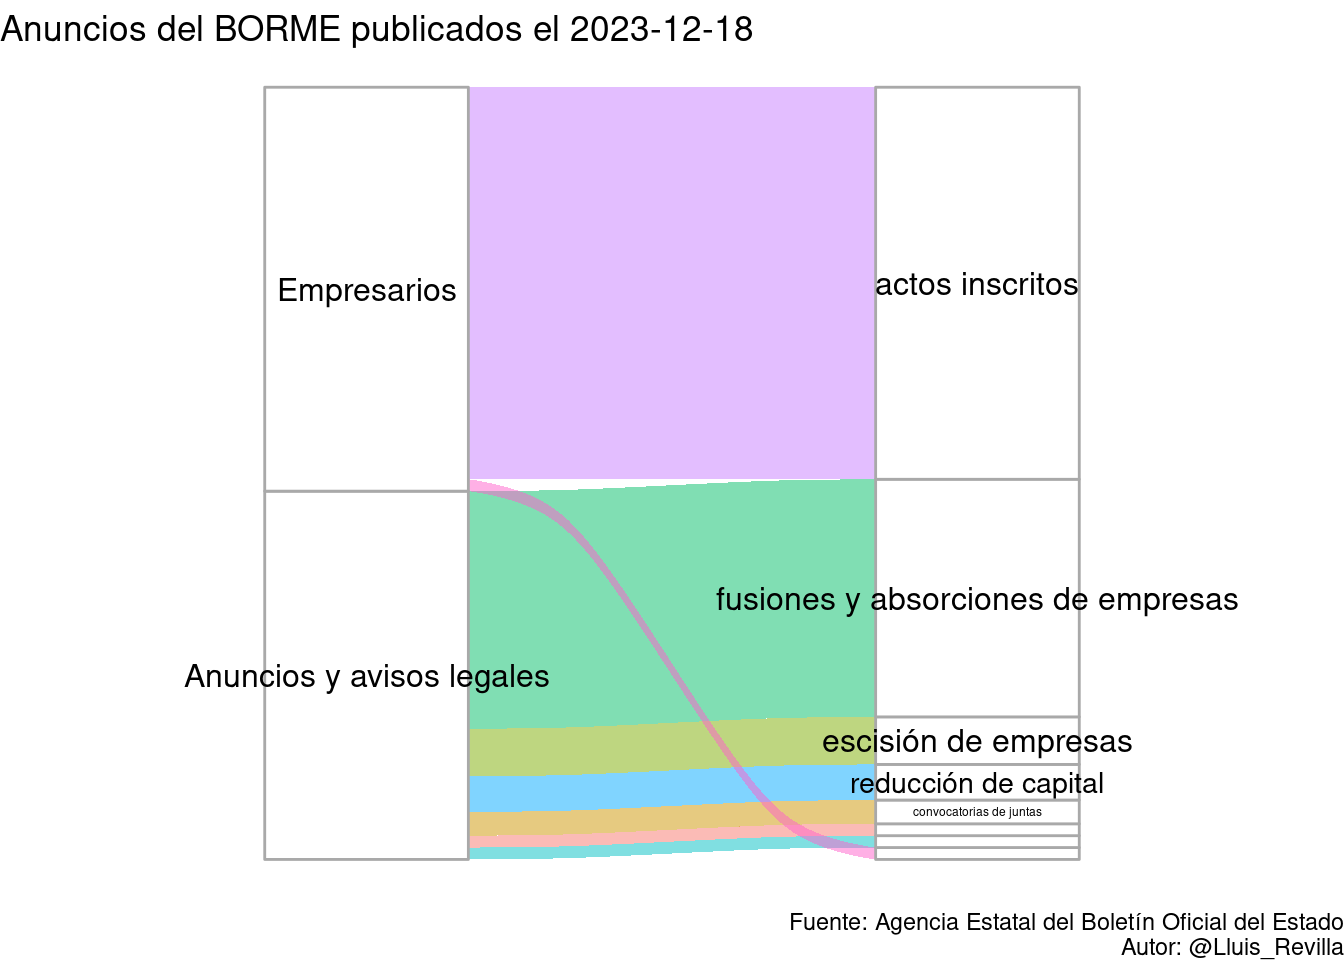
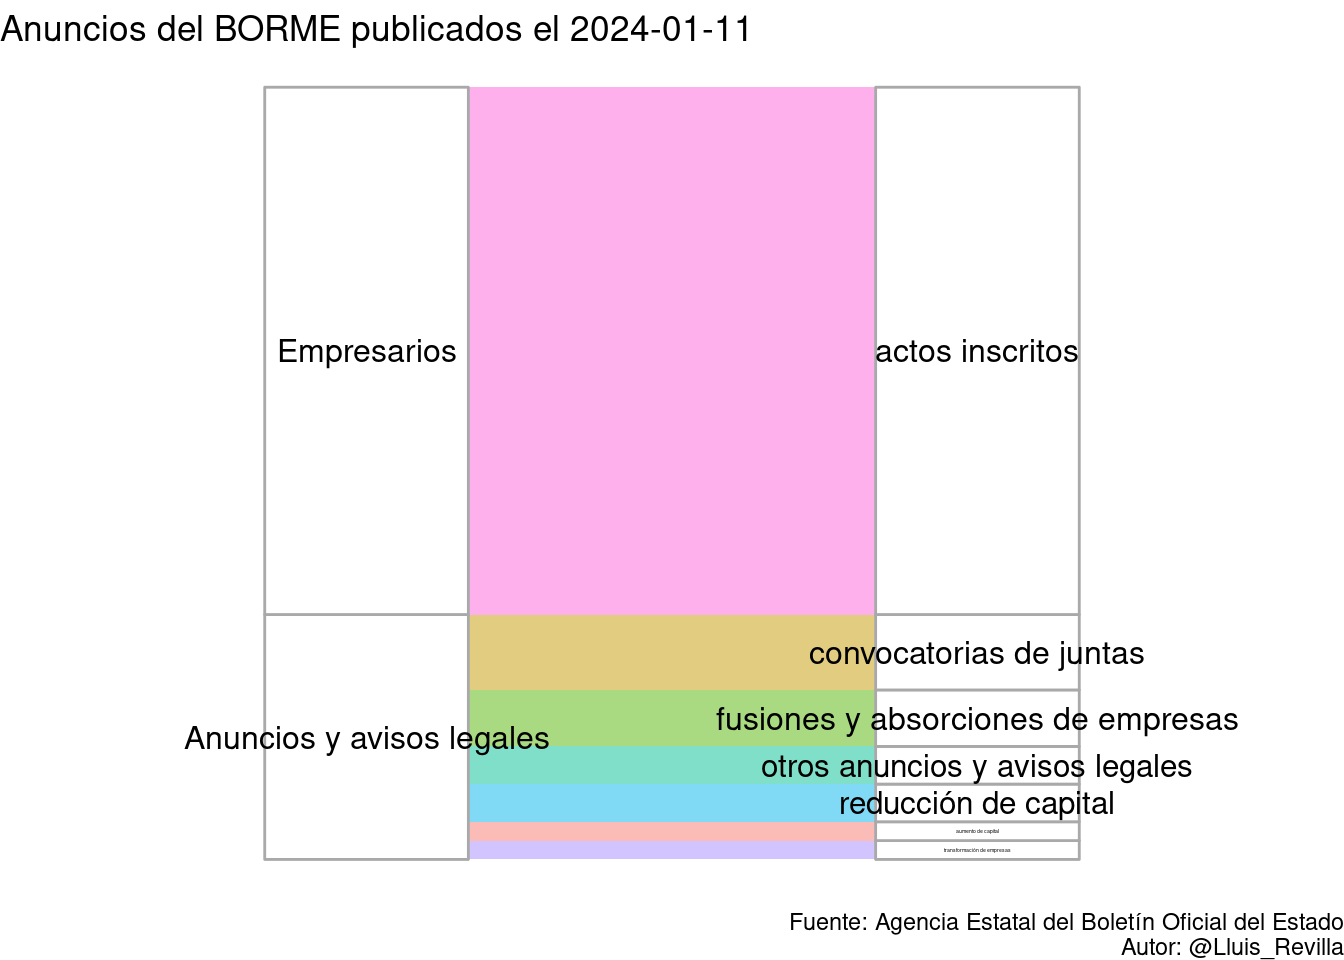
Update BORME

Changed region(s): [[0.125, 0.0938, 0.9062, 0.9062], [0.4688, 0.0, 0.5625, 0.0625]]

diff --git a/docs/last_BORME.html b/docs/last_BORME.html
@@ -379,14 +379,14 @@ $(document).ready(function () {
 
 <div id="resumen-gráfico" class="section level1">
 <h1>Resumen gráfico</h1>
-<p>Esta página web contiene el último sumario del BORME publicado el 2023-12-18 con 65 publicaciones.</p>
+<p>Esta página web contiene el último sumario del BORME publicado el 2024-01-11 con 41 publicaciones.</p>
 <p><img src="last_BORME_files/figure-html/graphics-1.png" width="672" /></p>
 </div>
 <div id="tabla-de-publicaciones" class="section level1">
 <h1>Tabla de publicaciones</h1>
 <p>Aquí está la tabla completa con enlaces a las publicaciones:</p>
-<div class="datatables html-widget html-fill-item-overflow-hidden html-fill-item" id="htmlwidget-524c3ef428e0dcd46468" style="width:100%;height:auto;"></div>
-<script type="application/json" data-for="htmlwidget-524c3ef428e0dcd46468">{"x":{"filter":"top","vertical":false,"filterHTML":"<tr>\n  <td><\/td>\n  <td data-type=\"character\" style=\"vertical-align: top;\">\n    <div class=\"form-group has-feedback\" style=\"margin-bottom: auto;\">\n      <input type=\"search\" placeholder=\"All\" class=\"form-control\" style=\"width: 100%;\"/>\n      <span class=\"glyphicon glyphicon-remove-circle form-control-feedback\"><\/span>\n    <\/div>\n  <\/td>\n  <td data-type=\"character\" style=\"vertical-align: top;\">\n    <div class=\"form-group has-feedback\" style=\"margin-bottom: auto;\">\n      <input type=\"search\" placeholder=\"All\" class=\"form-control\" style=\"width: 100%;\"/>\n      <span class=\"glyphicon glyphicon-remove-circle form-control-feedback\"><\/span>\n    <\/div>\n  <\/td>\n  <td data-type=\"character\" style=\"vertical-align: top;\">\n    <div class=\"form-group has-feedback\" style=\"margin-bottom: auto;\">\n      <input type=\"search\" placeholder=\"All\" class=\"form-control\" style=\"width: 100%;\" disabled=\"\"/>\n      <span class=\"glyphicon glyphicon-remove-circle form-control-feedback\"><\/span>\n    <\/div>\n  <\/td>\n  <td data-type=\"character\" style=\"vertical-align: top;\">\n    <div class=\"form-group has-feedback\" style=\"margin-bottom: auto;\">\n      <input type=\"search\" placeholder=\"All\" class=\"form-control\" style=\"width: 100%;\"/>\n      <span class=\"glyphicon glyphicon-remove-circle form-control-feedback\"><\/span>\n    <\/div>\n  <\/td>\n<\/tr>","data":[["1","2","3","4","5","6","7","8","9","10","11","12","13","14","15","16","17","18","19","20","21","22","23","24","25","26","27","28","29","30","31","32","33","34","35","36","37","38","39","40","41","42","43","44","45","46","47","48","49","50","51","52","53","54","55","56","57","58","59","60","61","62","63","64","65"],["SECCIÓN PRIMERA. Empresarios","SECCIÓN PRIMERA. Empresarios","SECCIÓN PRIMERA. Empresarios","SECCIÓN PRIMERA. Empresarios","SECCIÓN PRIMERA. Empresarios","SECCIÓN PRIMERA. Empresarios","SECCIÓN PRIMERA. Empresarios","SECCIÓN PRIMERA. Empresarios","SECCIÓN PRIMERA. Empresarios","SECCIÓN PRIMERA. Empresarios","SECCIÓN PRIMERA. Empresarios","SECCIÓN PRIMERA. Empresarios","SECCIÓN PRIMERA. Empresarios","SECCIÓN PRIMERA. Empresarios","SECCIÓN PRIMERA. Empresarios","SECCIÓN PRIMERA. Empresarios","SECCIÓN PRIMERA. Empresarios","SECCIÓN PRIMERA. Empresarios","SECCIÓN PRIMERA. Empresarios","SECCIÓN PRIMERA. Empresarios","SECCIÓN PRIMERA. Empresarios","SECCIÓN PRIMERA. Empresarios","SECCIÓN PRIMERA. Empresarios","SECCIÓN PRIMERA. Empresarios","SECCIÓN PRIMERA. Empresarios","SECCIÓN PRIMERA. Empresarios","SECCIÓN PRIMERA. Empresarios","SECCIÓN PRIMERA. Empresarios","SECCIÓN PRIMERA. Empresarios","SECCIÓN PRIMERA. Empresarios","SECCIÓN PRIMERA. Empresarios","SECCIÓN PRIMERA. Empresarios","SECCIÓN PRIMERA. Empresarios","SECCIÓN PRIMERA. Empresarios","SECCIÓN SEGUNDA. Anuncios y avisos legales","SECCIÓN SEGUNDA. Anuncios y avisos legales","SECCIÓN SEGUNDA. Anuncios y avisos legales","SECCIÓN SEGUNDA. Anuncios y avisos legales","SECCIÓN SEGUNDA. Anuncios y avisos legales","SECCIÓN SEGUNDA. Anuncios y avisos legales","SECCIÓN SEGUNDA. Anuncios y avisos legales","SECCIÓN SEGUNDA. Anuncios y avisos legales","SECCIÓN SEGUNDA. Anuncios y avisos legales","SECCIÓN SEGUNDA. Anuncios y avisos legales","SECCIÓN SEGUNDA. Anuncios y avisos legales","SECCIÓN SEGUNDA. Anuncios y avisos legales","SECCIÓN SEGUNDA. Anuncios y avisos legales","SECCIÓN SEGUNDA. Anuncios y avisos legales","SECCIÓN SEGUNDA. Anuncios y avisos legales","SECCIÓN SEGUNDA. Anuncios y avisos legales","SECCIÓN SEGUNDA. Anuncios y avisos legales","SECCIÓN SEGUNDA. Anuncios y avisos legales","SECCIÓN SEGUNDA. Anuncios y avisos legales","SECCIÓN SEGUNDA. Anuncios y avisos legales","SECCIÓN SEGUNDA. Anuncios y avisos legales","SECCIÓN SEGUNDA. Anuncios y avisos legales","SECCIÓN SEGUNDA. Anuncios y avisos legales","SECCIÓN SEGUNDA. Anuncios y avisos legales","SECCIÓN SEGUNDA. Anuncios y avisos legales","SECCIÓN SEGUNDA. Anuncios y avisos legales","SECCIÓN SEGUNDA. Anuncios y avisos legales","SECCIÓN SEGUNDA. Anuncios y avisos legales","SECCIÓN SEGUNDA. Anuncios y avisos legales","SECCIÓN SEGUNDA. Anuncios y avisos legales","SECCIÓN SEGUNDA. Anuncios y avisos legales"],["Actos inscritos","Actos inscritos","Actos inscritos","Actos inscritos","Actos inscritos","Actos inscritos","Actos inscritos","Actos inscritos","Actos inscritos","Actos inscritos","Actos inscritos","Actos inscritos","Actos inscritos","Actos inscritos","Actos inscritos","Actos inscritos","Actos inscritos","Actos inscritos","Actos inscritos","Actos inscritos","Actos inscritos","Actos inscritos","Actos inscritos","Actos inscritos","Actos inscritos","Actos inscritos","Actos inscritos","Actos inscritos","Actos inscritos","Actos inscritos","Actos inscritos","Actos inscritos","Actos inscritos","Otros actos publicados en el Registro Mercantil","BALANCES","CONVOCATORIAS DE JUNTAS","CONVOCATORIAS DE JUNTAS","FUSIONES Y ABSORCIONES DE EMPRESAS","FUSIONES Y ABSORCIONES DE EMPRESAS","FUSIONES Y ABSORCIONES DE EMPRESAS","FUSIONES Y ABSORCIONES DE EMPRESAS","FUSIONES Y ABSORCIONES DE EMPRESAS","FUSIONES Y ABSORCIONES DE EMPRESAS","FUSIONES Y ABSORCIONES DE EMPRESAS","FUSIONES Y ABSORCIONES DE EMPRESAS","FUSIONES Y ABSORCIONES DE EMPRESAS","FUSIONES Y ABSORCIONES DE EMPRESAS","FUSIONES Y ABSORCIONES DE EMPRESAS","FUSIONES Y ABSORCIONES DE EMPRESAS","FUSIONES Y ABSORCIONES DE EMPRESAS","FUSIONES Y ABSORCIONES DE EMPRESAS","FUSIONES Y ABSORCIONES DE EMPRESAS","FUSIONES Y ABSORCIONES DE EMPRESAS","FUSIONES Y ABSORCIONES DE EMPRESAS","FUSIONES Y ABSORCIONES DE EMPRESAS","FUSIONES Y ABSORCIONES DE EMPRESAS","FUSIONES Y ABSORCIONES DE EMPRESAS","ESCISIÓN DE EMPRESAS","ESCISIÓN DE EMPRESAS","ESCISIÓN DE EMPRESAS","ESCISIÓN DE EMPRESAS","REDUCCIÓN DE CAPITAL","REDUCCIÓN DE CAPITAL","REDUCCIÓN DE CAPITAL","OTROS ANUNCIOS Y AVISOS LEGALES"],[null,null,null,null,null,null,null,null,null,null,null,null,null,null,null,null,null,null,null,null,null,null,null,null,null,null,null,null,null,null,null,null,null,null,null,null,null,null,null,null,null,null,null,null,null,null,null,null,null,null,null,null,null,null,null,null,null,null,null,null,null,null,null,null,null],["BORME-A-2023-238-03","BORME-A-2023-238-04","BORME-A-2023-238-06","BORME-A-2023-238-07","BORME-A-2023-238-08","BORME-A-2023-238-10","BORME-A-2023-238-11","BORME-A-2023-238-12","BORME-A-2023-238-13","BORME-A-2023-238-14","BORME-A-2023-238-15","BORME-A-2023-238-19","BORME-A-2023-238-22","BORME-A-2023-238-23","BORME-A-2023-238-24","BORME-A-2023-238-26","BORME-A-2023-238-28","BORME-A-2023-238-29","BORME-A-2023-238-30","BORME-A-2023-238-31","BORME-A-2023-238-32","BORME-A-2023-238-33","BORME-A-2023-238-35","BORME-A-2023-238-36","BORME-A-2023-238-38","BORME-A-2023-238-40","BORME-A-2023-238-43","BORME-A-2023-238-45","BORME-A-2023-238-46","BORME-A-2023-238-47","BORME-A-2023-238-50","BORME-A-2023-238-51","BORME-A-2023-238-99","BORME-B-2023-238-08","BORME-C-2023-7437","BORME-C-2023-7438","BORME-C-2023-7439","BORME-C-2023-7440","BORME-C-2023-7441","BORME-C-2023-7442","BORME-C-2023-7443","BORME-C-2023-7444","BORME-C-2023-7445","BORME-C-2023-7446","BORME-C-2023-7447","BORME-C-2023-7448","BORME-C-2023-7449","BORME-C-2023-7450","BORME-C-2023-7451","BORME-C-2023-7452","BORME-C-2023-7453","BORME-C-2023-7454","BORME-C-2023-7455","BORME-C-2023-7456","BORME-C-2023-7457","BORME-C-2023-7458","BORME-C-2023-7459","BORME-C-2023-7460","BORME-C-2023-7461","BORME-C-2023-7462","BORME-C-2023-7463","BORME-C-2023-7464","BORME-C-2023-7465","BORME-C-2023-7466","BORME-C-2023-7467"]],"container":"<table class=\"display\">\n  <thead>\n    <tr>\n      <th> <\/th>\n      <th>Sección<\/th>\n      <th>Emisor<\/th>\n      <th>Texto<\/th>\n      <th>Link<\/th>\n    <\/tr>\n  <\/thead>\n<\/table>","options":{"pageLength":10,"autoWidth":true,"columnDefs":[{"orderable":false,"targets":0},{"name":" ","targets":0},{"name":"Sección","targets":1},{"name":"Emisor","targets":2},{"name":"Texto","targets":3},{"name":"Link","targets":4}],"order":[],"orderClasses":false,"orderCellsTop":true}},"evals":[],"jsHooks":[]}</script>
+<div class="datatables html-widget html-fill-item-overflow-hidden html-fill-item" id="htmlwidget-ff1a2ae1325f161d67cc" style="width:100%;height:auto;"></div>
+<script type="application/json" data-for="htmlwidget-ff1a2ae1325f161d67cc">{"x":{"filter":"top","vertical":false,"filterHTML":"<tr>\n  <td><\/td>\n  <td data-type=\"character\" style=\"vertical-align: top;\">\n    <div class=\"form-group has-feedback\" style=\"margin-bottom: auto;\">\n      <input type=\"search\" placeholder=\"All\" class=\"form-control\" style=\"width: 100%;\"/>\n      <span class=\"glyphicon glyphicon-remove-circle form-control-feedback\"><\/span>\n    <\/div>\n  <\/td>\n  <td data-type=\"character\" style=\"vertical-align: top;\">\n    <div class=\"form-group has-feedback\" style=\"margin-bottom: auto;\">\n      <input type=\"search\" placeholder=\"All\" class=\"form-control\" style=\"width: 100%;\"/>\n      <span class=\"glyphicon glyphicon-remove-circle form-control-feedback\"><\/span>\n    <\/div>\n  <\/td>\n  <td data-type=\"character\" style=\"vertical-align: top;\">\n    <div class=\"form-group has-feedback\" style=\"margin-bottom: auto;\">\n      <input type=\"search\" placeholder=\"All\" class=\"form-control\" style=\"width: 100%;\" disabled=\"\"/>\n      <span class=\"glyphicon glyphicon-remove-circle form-control-feedback\"><\/span>\n    <\/div>\n  <\/td>\n  <td data-type=\"character\" style=\"vertical-align: top;\">\n    <div class=\"form-group has-feedback\" style=\"margin-bottom: auto;\">\n      <input type=\"search\" placeholder=\"All\" class=\"form-control\" style=\"width: 100%;\"/>\n      <span class=\"glyphicon glyphicon-remove-circle form-control-feedback\"><\/span>\n    <\/div>\n  <\/td>\n<\/tr>","data":[["1","2","3","4","5","6","7","8","9","10","11","12","13","14","15","16","17","18","19","20","21","22","23","24","25","26","27","28","29","30","31","32","33","34","35","36","37","38","39","40","41"],["SECCIÓN PRIMERA. Empresarios","SECCIÓN PRIMERA. Empresarios","SECCIÓN PRIMERA. Empresarios","SECCIÓN PRIMERA. Empresarios","SECCIÓN PRIMERA. Empresarios","SECCIÓN PRIMERA. Empresarios","SECCIÓN PRIMERA. Empresarios","SECCIÓN PRIMERA. Empresarios","SECCIÓN PRIMERA. Empresarios","SECCIÓN PRIMERA. Empresarios","SECCIÓN PRIMERA. Empresarios","SECCIÓN PRIMERA. Empresarios","SECCIÓN PRIMERA. Empresarios","SECCIÓN PRIMERA. Empresarios","SECCIÓN PRIMERA. Empresarios","SECCIÓN PRIMERA. Empresarios","SECCIÓN PRIMERA. Empresarios","SECCIÓN PRIMERA. Empresarios","SECCIÓN PRIMERA. Empresarios","SECCIÓN PRIMERA. Empresarios","SECCIÓN PRIMERA. Empresarios","SECCIÓN PRIMERA. Empresarios","SECCIÓN PRIMERA. Empresarios","SECCIÓN PRIMERA. Empresarios","SECCIÓN PRIMERA. Empresarios","SECCIÓN PRIMERA. Empresarios","SECCIÓN PRIMERA. Empresarios","SECCIÓN PRIMERA. Empresarios","SECCIÓN SEGUNDA. Anuncios y avisos legales","SECCIÓN SEGUNDA. Anuncios y avisos legales","SECCIÓN SEGUNDA. Anuncios y avisos legales","SECCIÓN SEGUNDA. Anuncios y avisos legales","SECCIÓN SEGUNDA. Anuncios y avisos legales","SECCIÓN SEGUNDA. Anuncios y avisos legales","SECCIÓN SEGUNDA. Anuncios y avisos legales","SECCIÓN SEGUNDA. Anuncios y avisos legales","SECCIÓN SEGUNDA. Anuncios y avisos legales","SECCIÓN SEGUNDA. Anuncios y avisos legales","SECCIÓN SEGUNDA. Anuncios y avisos legales","SECCIÓN SEGUNDA. Anuncios y avisos legales","SECCIÓN SEGUNDA. Anuncios y avisos legales"],["Actos inscritos","Actos inscritos","Actos inscritos","Actos inscritos","Actos inscritos","Actos inscritos","Actos inscritos","Actos inscritos","Actos inscritos","Actos inscritos","Actos inscritos","Actos inscritos","Actos inscritos","Actos inscritos","Actos inscritos","Actos inscritos","Actos inscritos","Actos inscritos","Actos inscritos","Actos inscritos","Actos inscritos","Actos inscritos","Actos inscritos","Actos inscritos","Actos inscritos","Actos inscritos","Actos inscritos","Actos inscritos","CONVOCATORIAS DE JUNTAS","CONVOCATORIAS DE JUNTAS","CONVOCATORIAS DE JUNTAS","CONVOCATORIAS DE JUNTAS","FUSIONES Y ABSORCIONES DE EMPRESAS","FUSIONES Y ABSORCIONES DE EMPRESAS","FUSIONES Y ABSORCIONES DE EMPRESAS","TRANSFORMACIÓN DE EMPRESAS","AUMENTO DE CAPITAL","REDUCCIÓN DE CAPITAL","REDUCCIÓN DE CAPITAL","OTROS ANUNCIOS Y AVISOS LEGALES","OTROS ANUNCIOS Y AVISOS LEGALES"],[null,null,null,null,null,null,null,null,null,null,null,null,null,null,null,null,null,null,null,null,null,null,null,null,null,null,null,null,null,null,null,null,null,null,null,null,null,null,null,null,null],["BORME-A-2024-8-02","BORME-A-2024-8-03","BORME-A-2024-8-04","BORME-A-2024-8-05","BORME-A-2024-8-06","BORME-A-2024-8-07","BORME-A-2024-8-08","BORME-A-2024-8-09","BORME-A-2024-8-12","BORME-A-2024-8-15","BORME-A-2024-8-17","BORME-A-2024-8-18","BORME-A-2024-8-19","BORME-A-2024-8-23","BORME-A-2024-8-28","BORME-A-2024-8-29","BORME-A-2024-8-30","BORME-A-2024-8-31","BORME-A-2024-8-33","BORME-A-2024-8-35","BORME-A-2024-8-36","BORME-A-2024-8-41","BORME-A-2024-8-43","BORME-A-2024-8-44","BORME-A-2024-8-45","BORME-A-2024-8-46","BORME-A-2024-8-47","BORME-A-2024-8-99","BORME-C-2024-92","BORME-C-2024-93","BORME-C-2024-94","BORME-C-2024-95","BORME-C-2024-96","BORME-C-2024-97","BORME-C-2024-98","BORME-C-2024-99","BORME-C-2024-100","BORME-C-2024-101","BORME-C-2024-102","BORME-C-2024-103","BORME-C-2024-104"]],"container":"<table class=\"display\">\n  <thead>\n    <tr>\n      <th> <\/th>\n      <th>Sección<\/th>\n      <th>Emisor<\/th>\n      <th>Texto<\/th>\n      <th>Link<\/th>\n    <\/tr>\n  <\/thead>\n<\/table>","options":{"pageLength":10,"autoWidth":true,"columnDefs":[{"orderable":false,"targets":0},{"name":" ","targets":0},{"name":"Sección","targets":1},{"name":"Emisor","targets":2},{"name":"Texto","targets":3},{"name":"Link","targets":4}],"order":[],"orderClasses":false,"orderCellsTop":true}},"evals":[],"jsHooks":[]}</script>
 </div>
 
 
